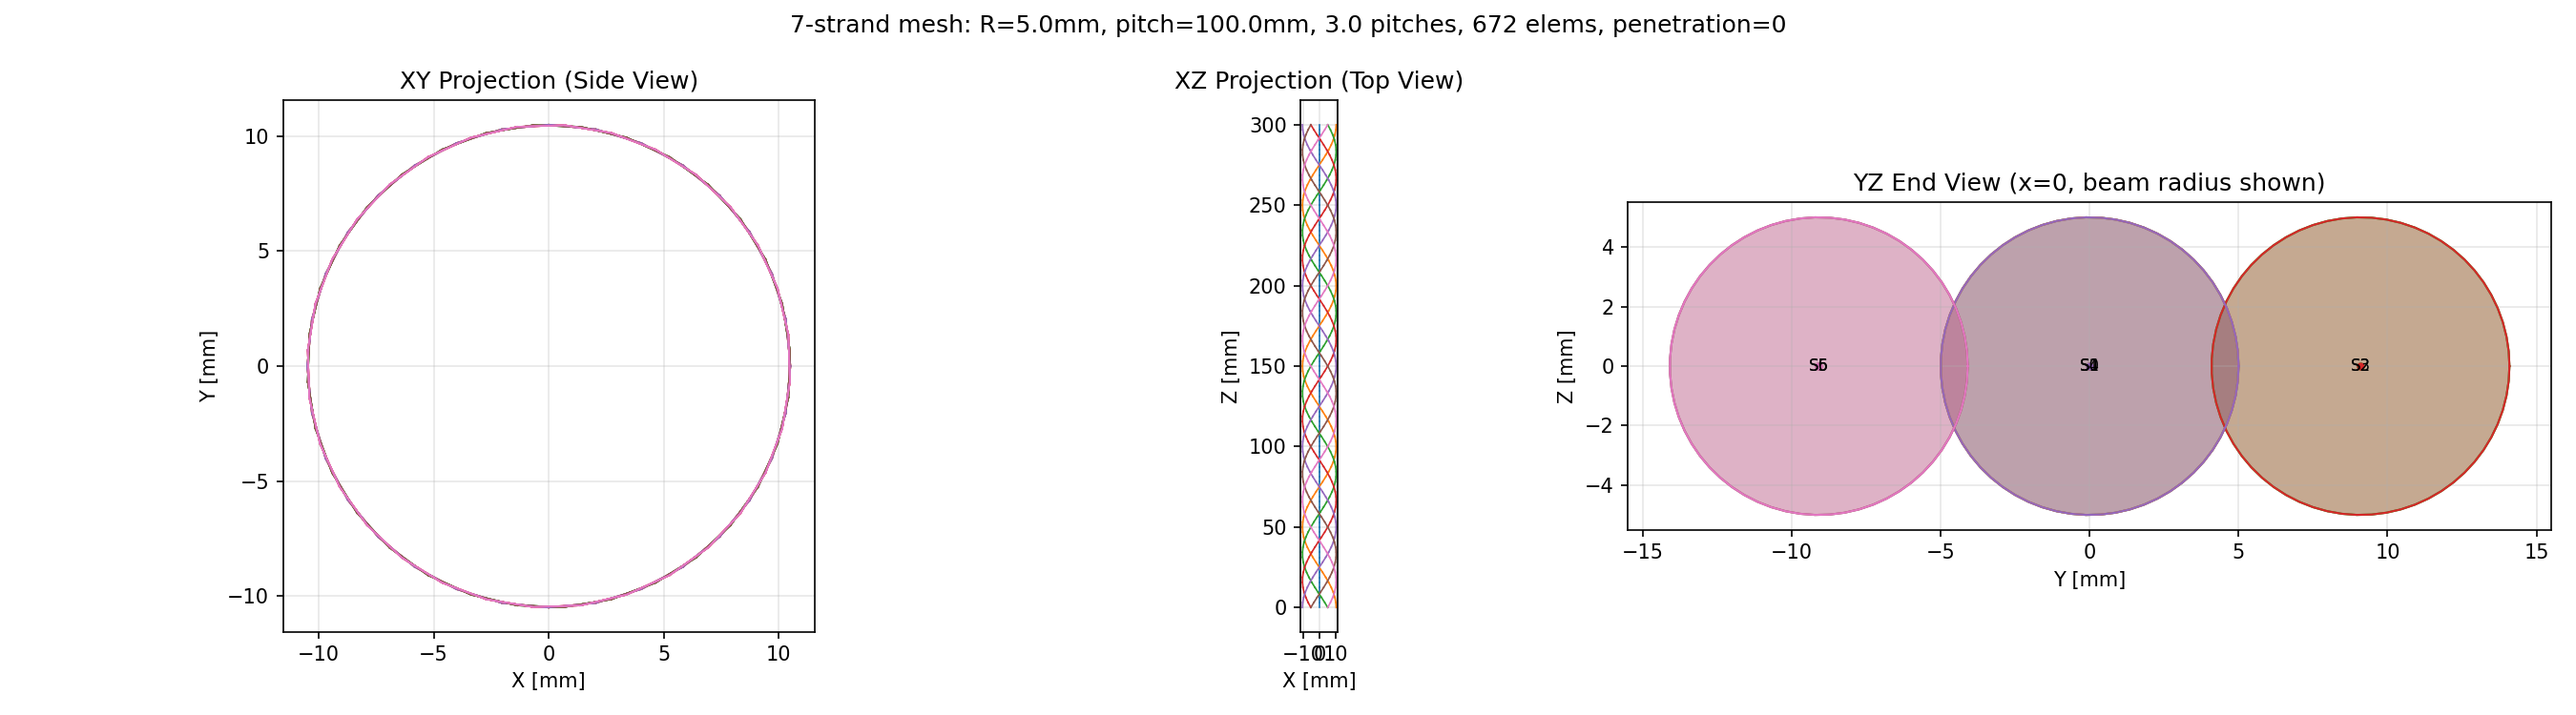
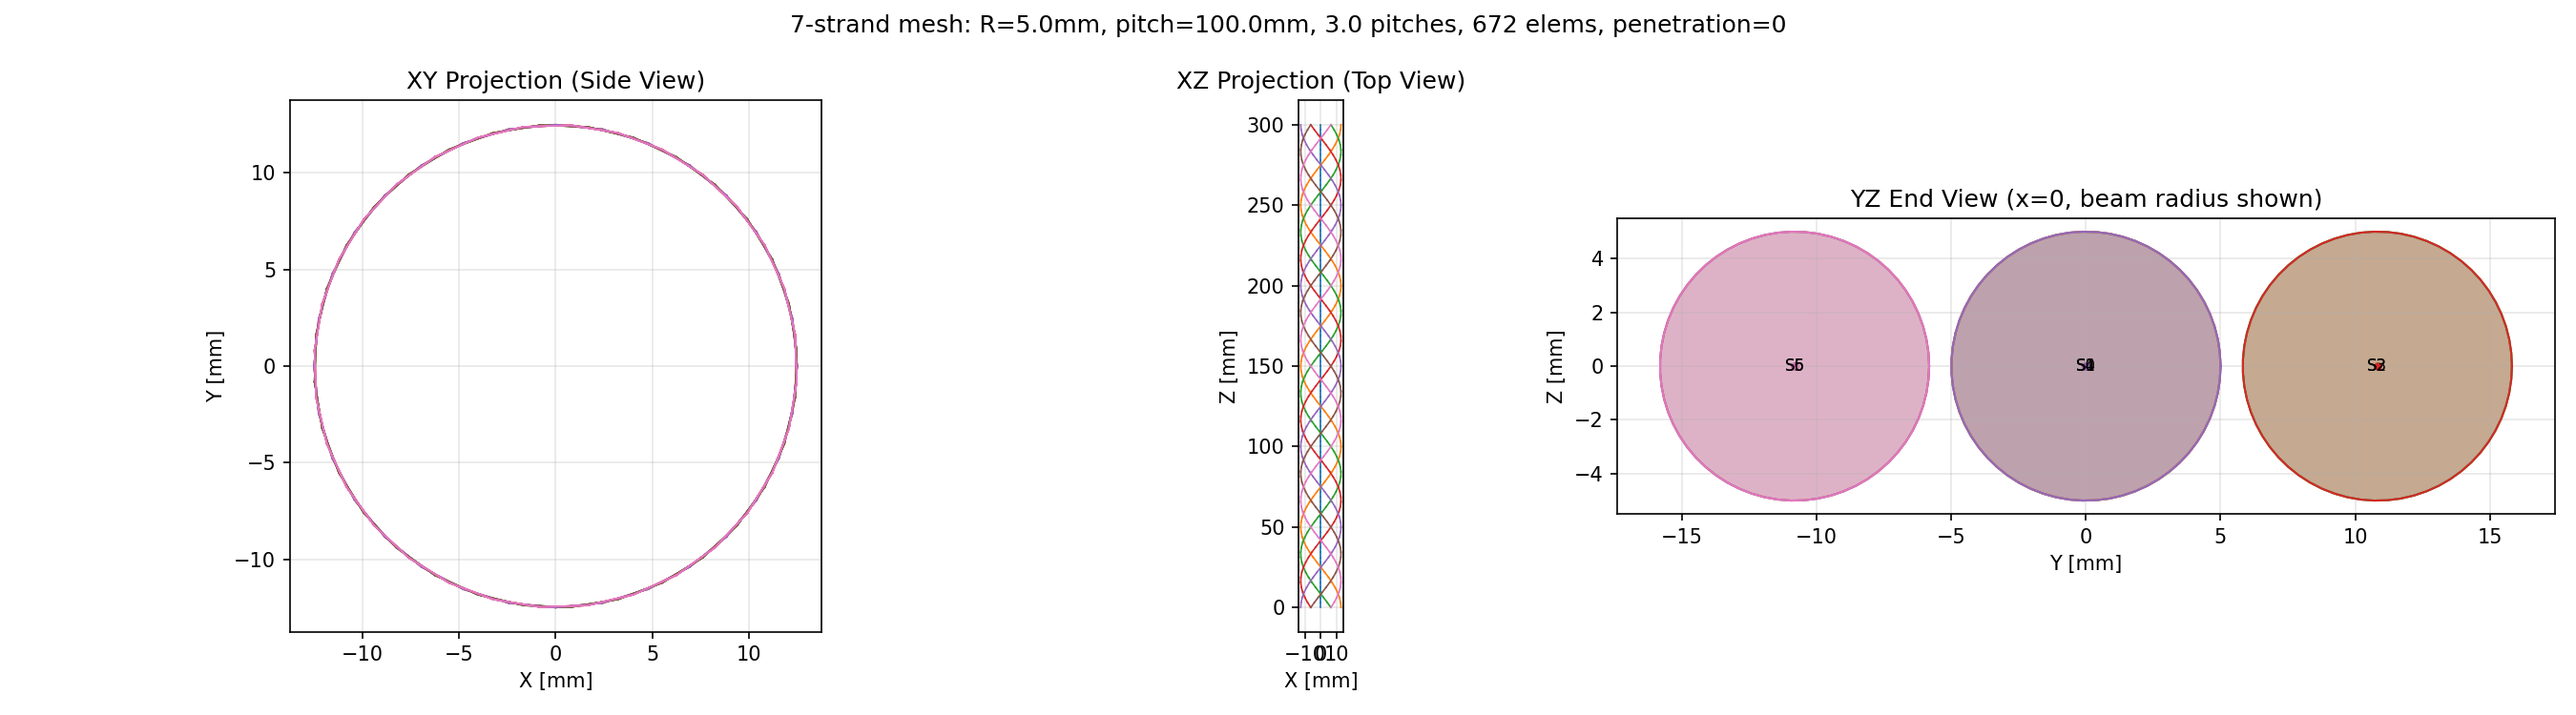
feat: 7本撚線メッシュ更新（gap=2.5mm、同素線除外で貫入ゼロ）
弦近似クロス効果のためgap=0.5では外周間2268ペア貫入。
gap=2.5mmで4436ペア・貫入ゼロを確認。
可視化画像を更新。

https://claude.ai/code/session_01MkSEGXnUUiLFoyWr5cQ3Qc

diff --git a/contracts/check_strand_mesh_7wire.py b/contracts/check_strand_mesh_7wire.py
@@ -28,7 +28,7 @@ PITCH_LENGTH = 100.0  # mm（10倍径）
 N_STRANDS = 7
 N_ELEMENTS_PER_PITCH = 32
 N_PITCHES = 3.0
-GAP = 0.5  # 明示的ギャップ（自動安全ギャップより大きめ）
+GAP = 2.5  # 外周素線間の弦近似クロス効果を考慮（2.5mm で貫入ゼロ確認済み）
 
 # ====================================================================
 # メッシュ生成
